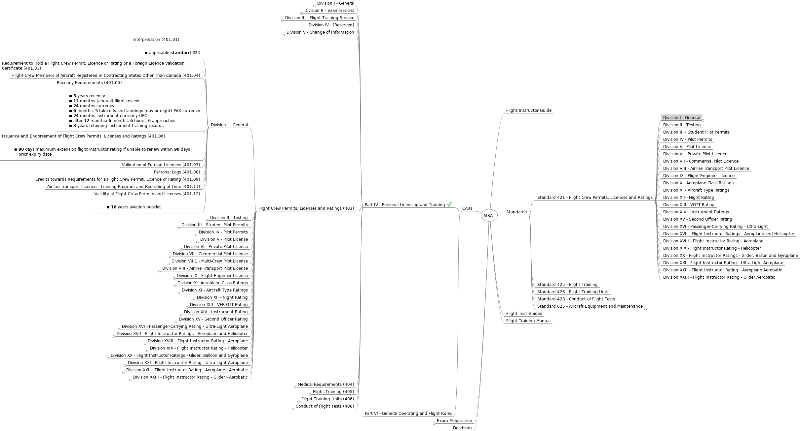
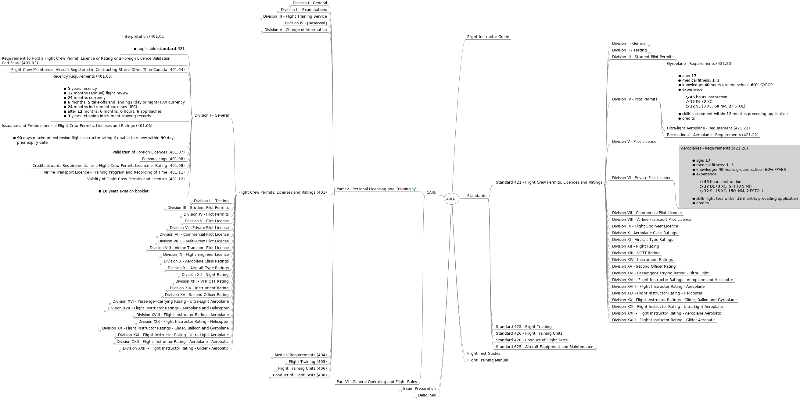
extended AIRAT mind map

diff --git a/FI/Documents/CARS/AIRAT.mm b/FI/Documents/CARS/AIRAT.mm
@@ -2567,7 +2567,7 @@
     </p>
   </body>
 </html></richcontent>
-<node CREATED="1603491738084" FOLDED="true" ID="ID_1671307345" MODIFIED="1603842937938" TEXT="Division I - General">
+<node CREATED="1603491738084" FOLDED="true" ID="ID_1671307345" MODIFIED="1603909746157" TEXT="Division I - General">
 <node CREATED="1603492397579" ID="ID_1564225874" MODIFIED="1603842099705">
 <richcontent TYPE="NODE"><html>
   <head>
@@ -2616,8 +2616,7 @@
       </li>
     </ul>
   </body>
-</html>
-</richcontent>
+</html></richcontent>
 </node>
 <node CREATED="1603839403007" ID="ID_1829023533" MODIFIED="1603839516593">
 <richcontent TYPE="NODE"><html>
@@ -2637,8 +2636,7 @@
       </li>
     </ul>
   </body>
-</html>
-</richcontent>
+</html></richcontent>
 </node>
 <node CREATED="1603840387809" ID="ID_257582223" MODIFIED="1603840642995">
 <richcontent TYPE="NODE"><html>
@@ -2664,8 +2662,7 @@
       </li>
     </ul>
   </body>
-</html>
-</richcontent>
+</html></richcontent>
 </node>
 <node CREATED="1603841035976" ID="ID_1001753232" MODIFIED="1603841303773">
 <richcontent TYPE="NODE"><html>
@@ -2688,8 +2685,7 @@
       </li>
     </ul>
   </body>
-</html>
-</richcontent>
+</html></richcontent>
 </node>
 <node CREATED="1603841325988" ID="ID_956692125" MODIFIED="1603842901244">
 <richcontent TYPE="NODE"><html>
@@ -2721,15 +2717,321 @@
       </li>
     </ul>
   </body>
+</html></richcontent>
+</node>
+</node>
+<node CREATED="1603491792578" FOLDED="true" ID="ID_598183191" MODIFIED="1603915367013" TEXT="Division II - Testing">
+<node CREATED="1603909834069" ID="ID_1522155184" MODIFIED="1603914743739">
+<richcontent TYPE="NODE"><html>
+  <head>
+    
+  </head>
+  <body>
+    <p>
+      Examination Prerequisites (421.13)
+    </p>
+    <p>
+      
+    </p>
+    <ul>
+      <li>
+        medical fitness
+      </li>
+      <li>
+        proof of identification
+      </li>
+      <li>
+        letter of recommendation (if applicable)
+
+        <ul>
+          <li>
+            issued within <b>60</b>&#160;days prior written examinations
+          </li>
+        </ul>
+      </li>
+      <li>
+        proof of training and experience (if applicable)
+
+        <ul>
+          <li>
+            PP(GY), RPP(A), PPL: <b>10</b>&#160;hours or valid PP(UL)
+          </li>
+          <li>
+            C4 FI - AIRAF: ground school and <b>50</b>% training
+          </li>
+          <li>
+            C1/2 FI - AIRAT: <b>50</b>% experience requirement
+          </li>
+          <li>
+            IR - INRAT: <b>20</b>&#160;hours instrument time
+          </li>
+          <li>
+            ATPL(A) integrated: ground school and MIFR flight test
+          </li>
+          <li>
+            <i>otherwise</i>&#160;<b>50</b>% experience requirement
+          </li>
+        </ul>
+      </li>
+    </ul>
+  </body>
+</html>
+</richcontent>
+</node>
+<node CREATED="1603911301219" ID="ID_1686334328" MODIFIED="1603915032658">
+<richcontent TYPE="NODE"><html>
+  <head>
+    
+  </head>
+  <body>
+    <p>
+      Flight Test Prerequisites (421.14)
+    </p>
+    <p>
+      
+    </p>
+    <ul>
+      <li>
+        medical fitness
+      </li>
+      <li>
+        proof of identification
+      </li>
+      <li>
+        letter of recommendation (if applicable)
+
+        <ul>
+          <li>
+            issued within <b>30</b>&#160;days prior flight test
+          </li>
+        </ul>
+      </li>
+      <li>
+        CPL (not integrated): passed written examination
+      </li>
+      <li>
+        PP(GY), PPL: <b>35</b>&#160;hours
+      </li>
+      <li>
+        PCR(UL), RPP(A), IR, FI: <b>100</b>% experience requirement
+      </li>
+      <li>
+        FI(UL): <b>25</b>&#160;hours
+      </li>
+      <li>
+        otherwise <b>75</b>% experience requirement
+      </li>
+    </ul>
+  </body>
+</html>
+</richcontent>
+</node>
+<node CREATED="1603915097714" ID="ID_258926117" MODIFIED="1603915104656" TEXT="Failure of a Flight Test (421.16)"/>
+<node CREATED="1603915155467" ID="ID_820906539" MODIFIED="1603915261453">
+<richcontent TYPE="NODE"><html>
+  <head>
+    
+  </head>
+  <body>
+    <p>
+      Failure of a Flight Test for a Rating Renewal (421.17)
+    </p>
+    <p>
+      
+    </p>
+    <ul>
+      <li>
+        suspension or down-grading
+      </li>
+    </ul>
+  </body>
+</html>
+</richcontent>
+</node>
+<node CREATED="1603915300561" ID="ID_675386998" MODIFIED="1603915355871">
+<richcontent TYPE="NODE"><html>
+  <head>
+    
+  </head>
+  <body>
+    <p>
+      Examiner&#8217;s Endorsement of Personal Log - Gliders and Balloons (421.18)
+    </p>
+    <p>
+      
+    </p>
+    <ul>
+      <li>
+        method of launch / inflation
+      </li>
+    </ul>
+  </body>
 </html>
 </richcontent>
 </node>
 </node>
-<node CREATED="1603491792578" ID="ID_598183191" MODIFIED="1603491807946" TEXT="Division II - Testing"/>
-<node CREATED="1603491812679" ID="ID_1671629388" MODIFIED="1603491827863" TEXT="Division III - Student Pilot Permits"/>
-<node CREATED="1603491837371" ID="ID_412797028" MODIFIED="1603491845134" TEXT="Division IV - Pilot Permits"/>
+<node CREATED="1603491812679" FOLDED="true" ID="ID_1671629388" MODIFIED="1603920539785" TEXT="Division III - Student Pilot Permits">
+<node CREATED="1603915400472" ID="ID_1229888696" MODIFIED="1603919985100">
+<richcontent TYPE="NODE"><html>
+  <head>
+    
+  </head>
+  <body>
+    <p>
+      Student Pilot Permit - Requirements (421.19)
+    </p>
+    <p>
+      
+    </p>
+    <ul>
+      <li>
+        applicable to GY, UL, GL, BL, A, H
+      </li>
+      <li>
+        citizenship, age: <b>14</b>
+      </li>
+      <li>
+        medical fitness
+
+        <ul>
+          <li>
+            GY, BL, H: <b>1</b>, <b>3</b>
+          </li>
+          <li>
+            A, UL, GL: <b>1</b>, <b>3</b>, <b>4</b>
+          </li>
+        </ul>
+      </li>
+      <li>
+        knowledge (written exam)
+
+        <ul>
+          <li>
+            UL: <b>90</b>% corrected to <b>100</b>% by FI(UL), FI(A)
+          </li>
+          <li>
+            GL: passed examination statement by FI(GL)
+          </li>
+          <li>
+            <i>otherwise</i>&#160;<b>90</b>% corrected to <b>100</b>% by FI(A), TC (PSTAR, ROC)
+          </li>
+        </ul>
+      </li>
+      <li>
+        experience and skill (instructor assessment)
+      </li>
+      <li>
+        issue (TC delegate)
+      </li>
+    </ul>
+  </body>
+</html>
+</richcontent>
+</node>
+</node>
+<node CREATED="1603491837371" ID="ID_412797028" MODIFIED="1603491845134" TEXT="Division IV - Pilot Permits">
+<node CREATED="1603919649532" ID="ID_614397863" MODIFIED="1603921075134">
+<richcontent TYPE="NODE"><html>
+  <head>
+    
+  </head>
+  <body>
+    <p>
+      Gyroplane - Requirements (421.20)
+    </p>
+    <p>
+      
+    </p>
+    <ul>
+      <li>
+        age: <b>17</b>
+      </li>
+      <li>
+        medical fitness: <b>1</b>, <b>3</b>
+      </li>
+      <li>
+        knowledge: <b>40</b>&#160;hours ground school, <b>60</b>% GYROP
+      </li>
+      <li>
+        experience:
+
+        <ul>
+          <li>
+            <b>45</b>&#160;hours instruction
+          </li>
+          <li>
+            <b>12</b>&#160;DL (<b>2</b>&#160;XC)
+          </li>
+          <li>
+            <b>12</b>&#160;SL (<b>3</b>&#160;XC, <b>60</b>&#160;NM, <b>2</b>&#160;FSTOL)
+          </li>
+        </ul>
+      </li>
+      <li>
+        skill: assessment within <b>12</b>&#160;months preceding application
+      </li>
+      <li>
+        credits
+      </li>
+    </ul>
+  </body>
+</html>
+</richcontent>
+</node>
+<node CREATED="1603920499851" ID="ID_1055558974" MODIFIED="1603920505928" TEXT="Ultra-light Aeroplane - Requirement (421.21)"/>
+<node CREATED="1603920526165" ID="ID_1407540418" MODIFIED="1603920531992" TEXT="Recreational - Aeroplane - Requirements (421.22)"/>
+</node>
 <node CREATED="1603491848549" ID="ID_922026930" MODIFIED="1603491875957" TEXT="Division V - Pilot Licence"/>
-<node CREATED="1603491881276" ID="ID_1870814399" MODIFIED="1603491891717" TEXT="Division VI - Private Pilot Licence"/>
+<node CREATED="1603491881276" ID="ID_1870814399" MODIFIED="1603491891717" TEXT="Division VI - Private Pilot Licence">
+<node CREATED="1603920607140" ID="ID_1385616112" MODIFIED="1603921083634">
+<richcontent TYPE="NODE"><html>
+  <head>
+    
+  </head>
+  <body>
+    <p>
+      Aeroplanes - Requirements (421.26)
+    </p>
+    <p>
+      
+    </p>
+    <ul>
+      <li>
+        age: <b>17</b>
+      </li>
+      <li>
+        medical fitness: <b>1</b>, <b>3</b>
+      </li>
+      <li>
+        knowledge: <b>40</b>&#160;hours ground school, <b>60</b>% PPAER
+      </li>
+      <li>
+        experience:
+
+        <ul>
+          <li>
+            <b>45</b>&#160;hours instruction
+          </li>
+          <li>
+            <b>17</b>&#160;DL (<b>3</b>&#160;XC, <b>5</b>&#160;IT (<b>3</b>&#160;SIM))
+          </li>
+          <li>
+            <b>12</b>&#160;SL (<b>5</b>&#160;XC, <b>150</b>&#160;&#160;NM, <b>2</b>&#160;FSTOL)
+          </li>
+        </ul>
+      </li>
+      <li>
+        skill: flight test within <b>12</b>&#160;months preceding application
+      </li>
+      <li>
+        credits
+      </li>
+    </ul>
+  </body>
+</html>
+</richcontent>
+</node>
+</node>
 <node CREATED="1603491899955" ID="ID_1921926935" MODIFIED="1603491911309" TEXT="Division VII - Commercial Pilot Licence"/>
 <node CREATED="1603491918760" ID="ID_1219281581" MODIFIED="1603491930693" TEXT="Division VIII - Airline Transport Pilot Licence"/>
 <node CREATED="1603491940358" ID="ID_481560815" MODIFIED="1603491952574" TEXT="Division IX - Flight Engineer Licence"/>
